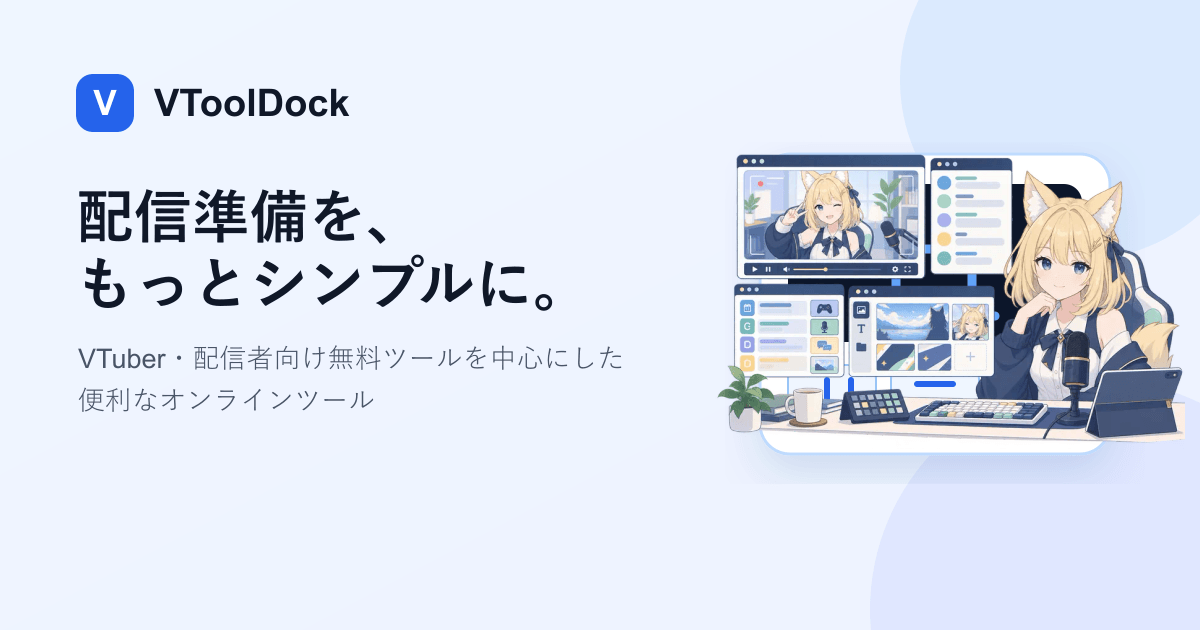
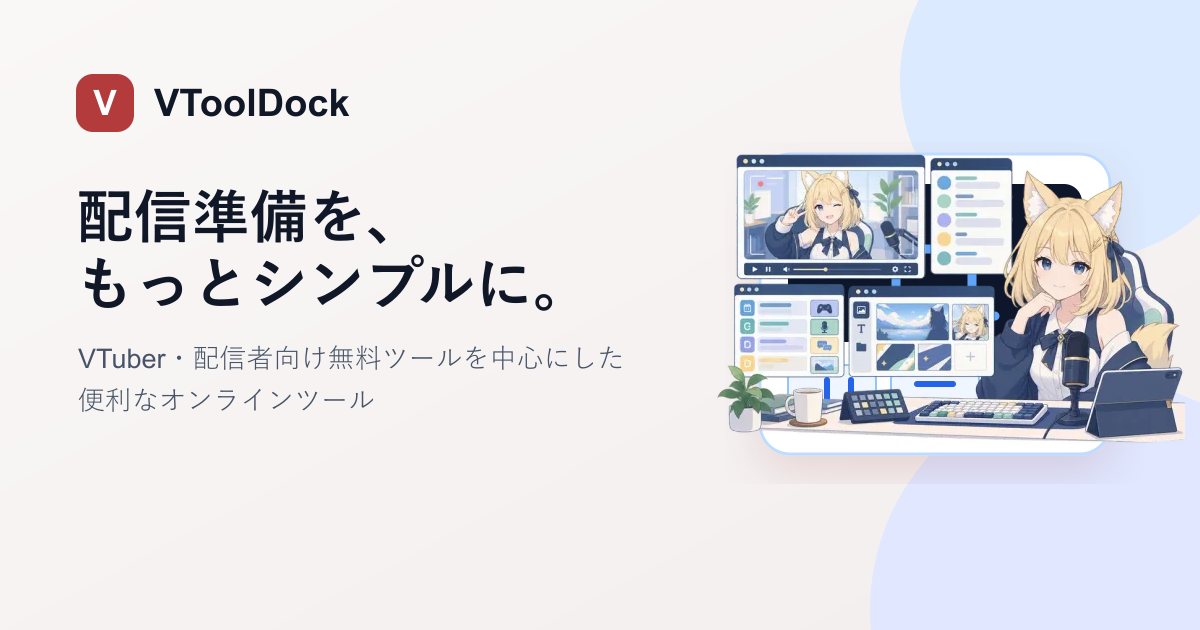
style: add category guides and red accents

Changed region(s): [[0.0617, 0.1206, 0.1233, 0.2111], [0.7092, 0.7238, 0.7708, 0.754]]

diff --git a/src/styles/global.css b/src/styles/global.css
@@ -98,3 +98,17 @@ body{background:#f8f9fb}.site-header{border-bottom-color:#e3e6eb;box-shadow:none
 .name-search{border-color:#d9dee7;background:#f1f3f6}.name-empty{border-color:#cdd5df;background:#f7f8fa}.name-state-icon{border-color:#d7dde5;background:#e9edf2;box-shadow:none}.name-state-icon:after{display:none}.name-state-icon.missing{background:#ececf1}.name-state-icon.hidden,.name-state-icon.error{background:#f4e9e4}.name-state-icon.complete{background:#e4efec}.name-status.complete{background:#f0f6f4}.name-status.error-state{background:#f8f2ef}.name-result{border-color:#d8dee6;background:#fff}
 @media(max-width:800px){.mascot-visual{min-height:320px}.featured-vtuber,.new-section{padding:34px 24px}.category-visual{width:280px;height:270px}.category-visual img{width:300px}.vtuber-category .category-hero{padding-right:260px}}
 @media(max-width:560px){.mascot-visual{min-height:auto;padding:12px}.featured-vtuber,.new-section{padding:28px 18px}.vtuber-category .category-hero{min-height:560px;padding:32px 22px 285px}.category-visual{width:330px;height:280px}.category-visual img{right:0;bottom:8px;width:330px}}
+
+/* 赤を軸にカテゴリごとの操作色を整理 */
+:root{--blue:#b43b3b;--cyan:#3d6d70}
+button:focus-visible,a:focus-visible,input:focus-visible,textarea:focus-visible,select:focus-visible{outline-color:#e5a0a0}
+.brand-mark{background:#b43b3b}.footer-brand .brand-mark{color:#b43b3b}.primary-link,.button.primary{border-color:#b43b3b;background:#b43b3b}.primary-link:hover,.button.primary:hover{background:#963131}.primary-link span{background:#7f2929}
+.hero-panel{background:#f4eeee}.mascot-visual{background:#f4f1f1}.featured-vtuber{background:#f5f1f2}.new-section{background:#f6f4f2}.category-grid .featured{background:#f8eeee;color:#922f2f}.category-grid .featured small{color:#b43b3b}
+.category-vtuber{--accent:#b43b3b}.category-image{--accent:#c15b45}.category-text{--accent:#8d4e62}.category-development{--accent:#3d6d70}.category-random{--accent:#a5742a}
+.tool-page.category-vtuber{--action:#b43b3b;--action-hover:#963131;--action-soft:#f8eeee}.tool-page.category-image{--action:#c15b45;--action-hover:#a44835;--action-soft:#fbf0ed}.tool-page.category-text{--action:#8d4e62;--action-hover:#713d4e;--action-soft:#f6eef1}.tool-page.category-development{--action:#3d6d70;--action-hover:#30575a;--action-soft:#edf4f4}.tool-page.category-random{--action:#a5742a;--action-hover:#825a20;--action-soft:#f8f3e9}
+.tool-page[class*="category-"] .button.primary{border-color:var(--action);background:var(--action)}.tool-page[class*="category-"] .button.primary:hover{background:var(--action-hover)}.tool-page[class*="category-"] .button:not(.primary):not(.subtle){border-color:color-mix(in srgb,var(--action) 34%,#d9dee7);background:var(--action-soft);color:var(--action)}.tool-page[class*="category-"] .button:not(.primary):not(.subtle):hover{border-color:var(--action);background:#fff}
+.stats-grid .primary-stat{background:#b43b3b}.stats-grid .primary-stat span{color:#f7d9d9}.dropzone{border-color:#dfb7b7;background:#fcf7f7}.upload-icon{background:#f4dddd}.random-result,.calculation-result{background:#f8eeee;color:#8f3030}.calculation-result strong{color:#a53636}.progress-track span{background:#b43b3b}
+.name-search{border-color:#decaca;background:#f5f1f1}.name-search>label,.name-empty strong,.name-status strong,.registered-label{color:#9b3333}.name-empty{border-color:#dfcaca;background:#faf7f7}.name-state-icon{color:#b43b3b;background:#f2e5e5}.name-result{border-color:#decaca}
+.illustrated-category{position:relative;max-width:none;min-height:370px;margin-top:28px;padding:58px 430px 48px 48px;overflow:hidden;border:1px solid #e1dcdc;border-radius:20px;background:#f5f3f3}.illustrated-category .category-visual{position:absolute;right:18px;top:50%;width:390px;height:330px;transform:translateY(-50%);overflow:hidden}.illustrated-category .category-visual img{position:absolute;right:-8px;bottom:0;width:390px;height:auto;filter:none}.vtuber-category .illustrated-category{padding-right:430px;background:#f5f1f2}.vtuber-category .illustrated-category .category-visual{right:18px;width:390px;height:330px}.vtuber-category .illustrated-category .category-visual img{right:-8px;bottom:0;width:390px}
+@media(max-width:800px){.illustrated-category,.vtuber-category .illustrated-category{padding-right:300px}.illustrated-category .category-visual,.vtuber-category .illustrated-category .category-visual{width:290px;height:280px}.illustrated-category .category-visual img,.vtuber-category .illustrated-category .category-visual img{width:300px}}
+@media(max-width:560px){.illustrated-category,.vtuber-category .illustrated-category{min-height:550px;padding:32px 22px 285px}.illustrated-category .category-visual,.vtuber-category .illustrated-category .category-visual{left:50%;right:auto;top:auto;bottom:0;width:330px;height:280px;transform:translateX(-50%)}.illustrated-category .category-visual img,.vtuber-category .illustrated-category .category-visual img{right:0;bottom:4px;width:330px}}
